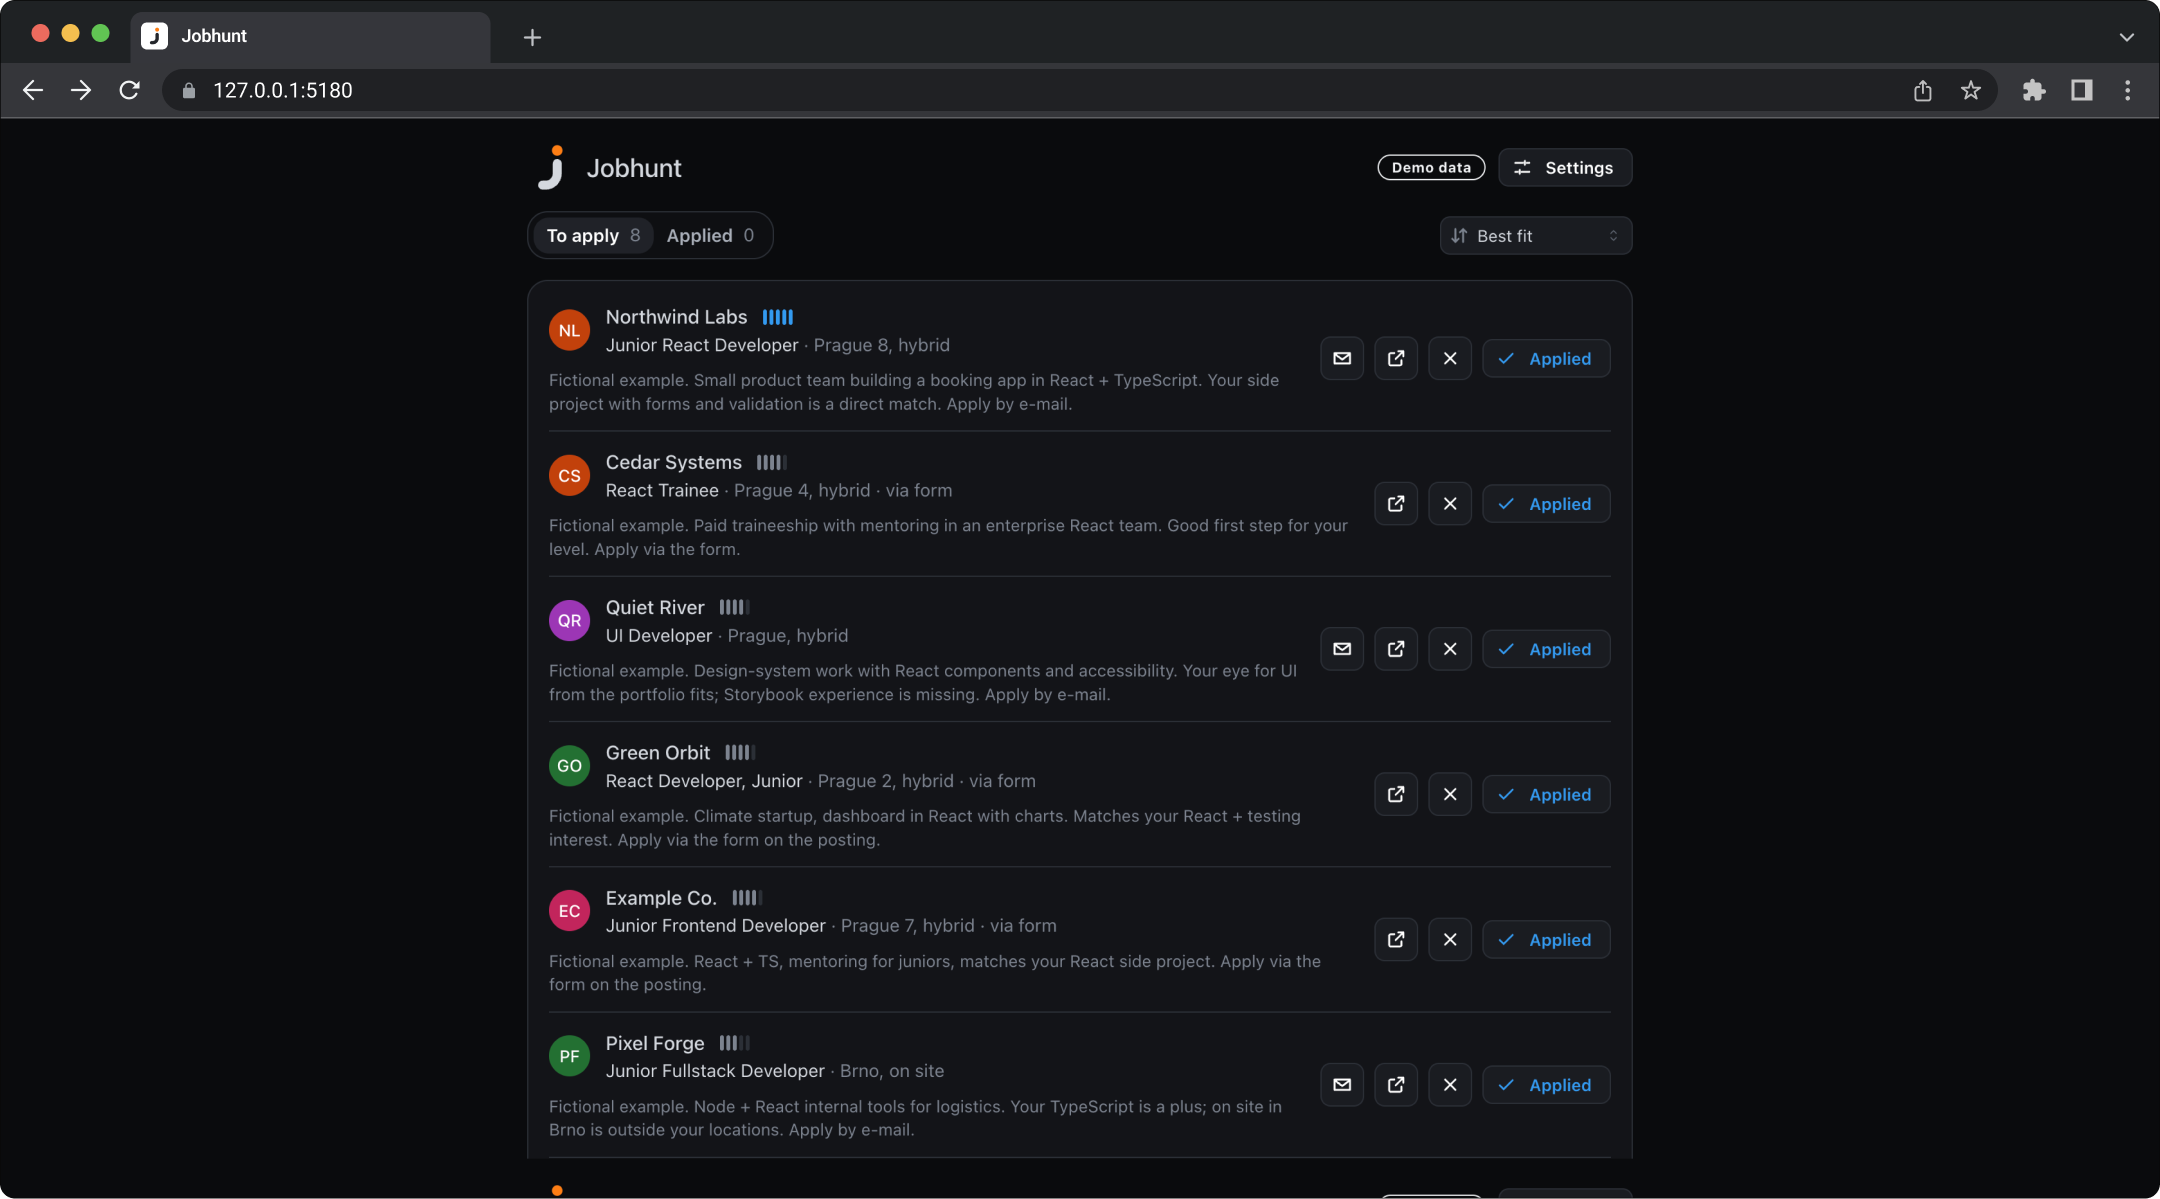
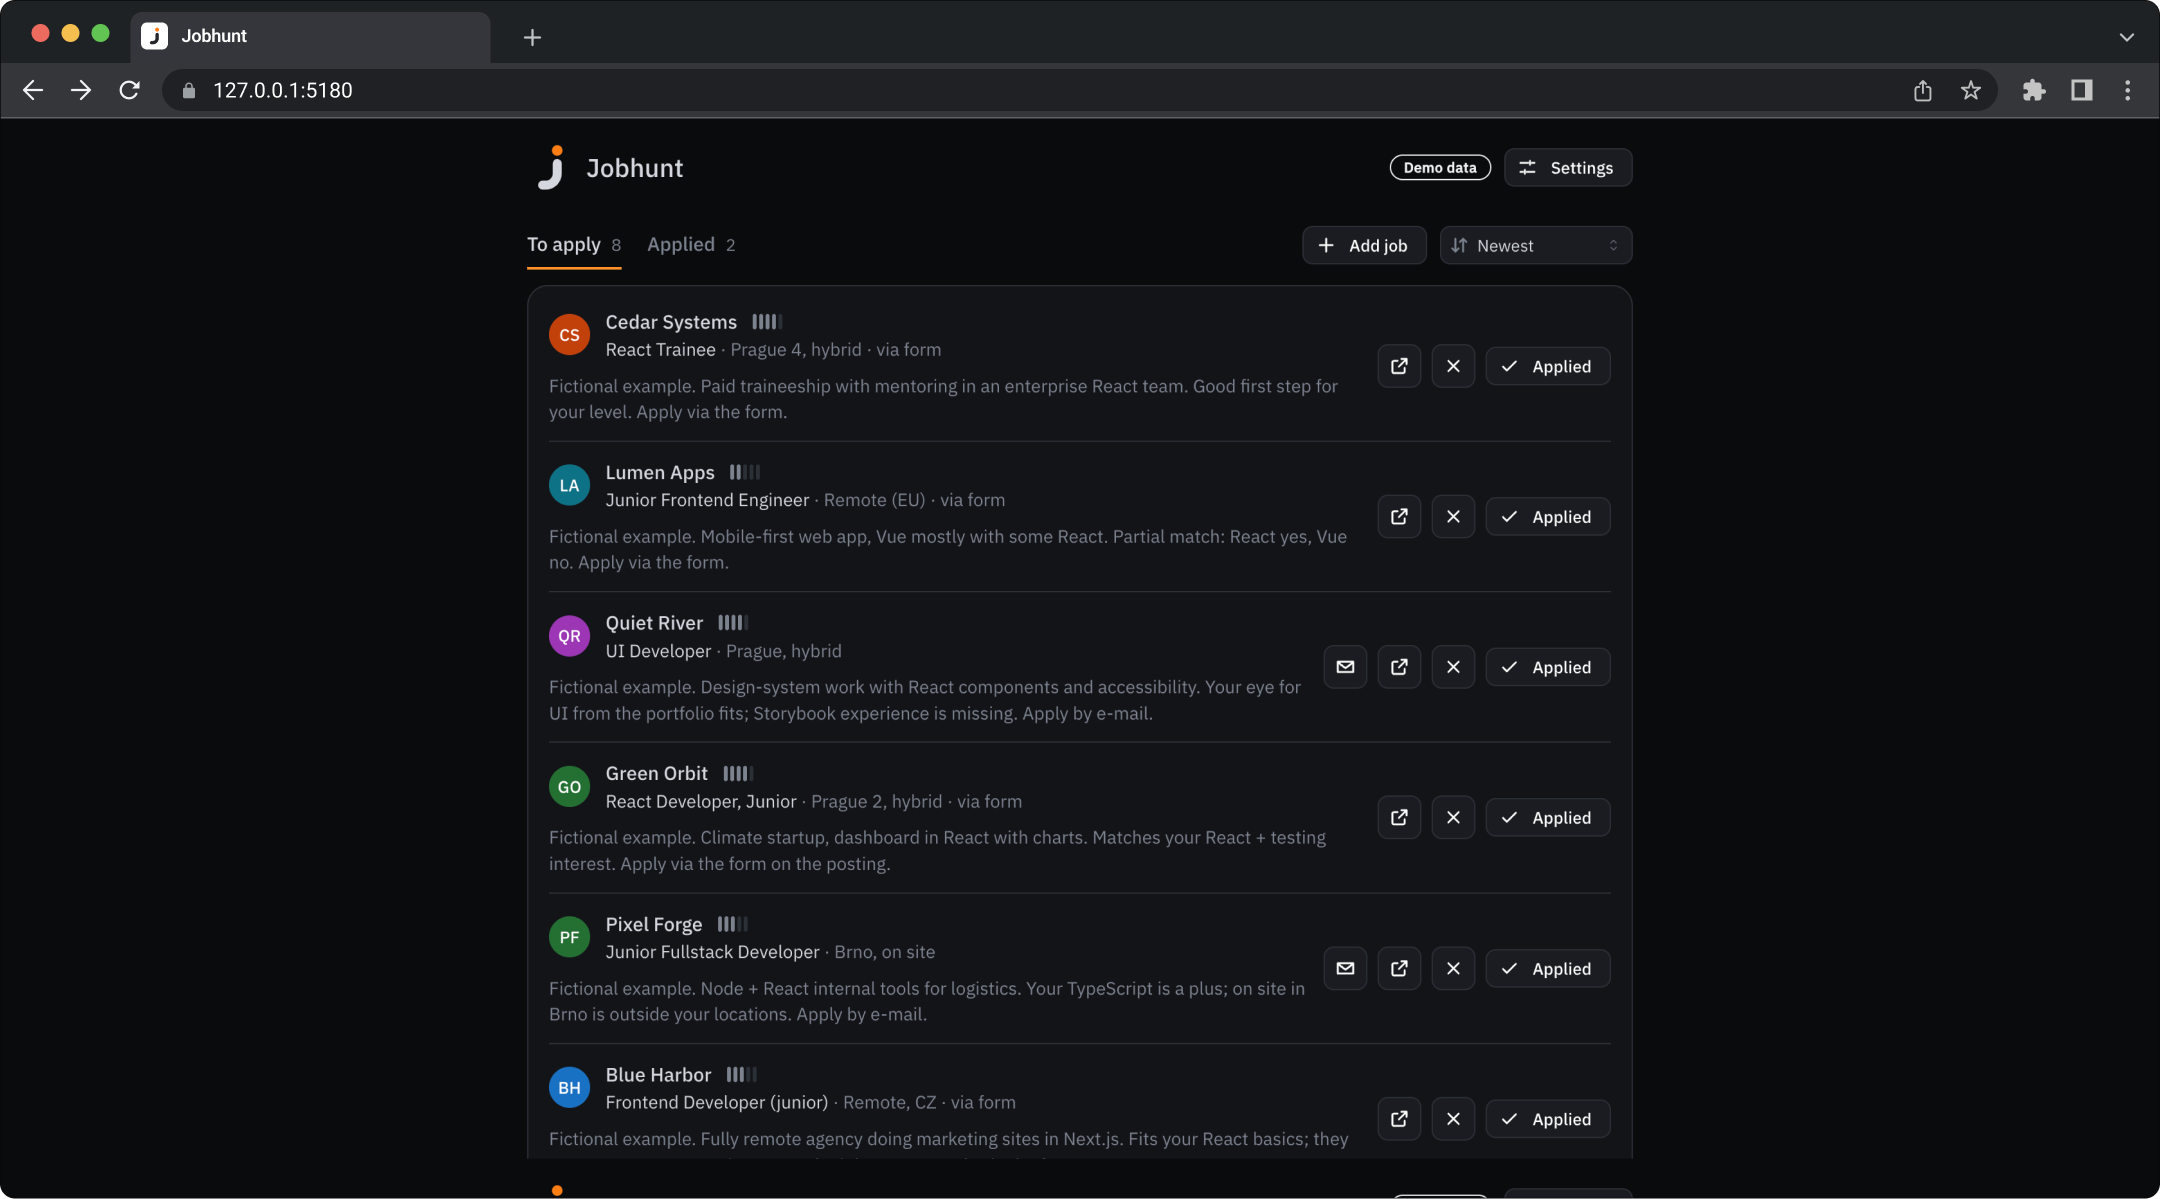
feat: IBM Plex type, orange default accent, plain text list tabs
Bundles IBM Plex Sans and Mono locally, makes the logo orange the default
accent (shades 7-9 darkened for contrast), replaces the segmented control
with text tabs and mono counts, and refreshes the README screenshots.

diff --git a/src/App.tsx b/src/App.tsx
@@ -14,12 +14,12 @@ import {
 	Flex,
 	Group,
 	Paper,
-	SegmentedControl,
 	Select,
 	Stack,
 	Text,
 	Textarea,
 	Title,
+	UnstyledButton,
 } from '@mantine/core';
 import {
 	AppHeader,
@@ -135,7 +135,6 @@ function Row({ r, sent }: { r: JobRow; sent: boolean }) {
 							/>
 							<Button
 								variant="default"
-								c="var(--mantine-primary-color-filled)"
 								className="hover-accent"
 								size="xs"
 								leftSection={<Icon name="check" />}
@@ -244,13 +243,42 @@ const sorters: Record<Sort, (a: JobRow, b: JobRow) => number> = {
 	company: (a, b) => a.company.localeCompare(b.company, locale, { sensitivity: 'base' }),
 };
 
-function TabLabel({ label, count }: { label: string; count: number }) {
+/** Plain text tabs: label plus a mono count, the open one in the text color with an accent underline. */
+function ListTabs({
+	value,
+	onChange,
+	items,
+}: {
+	value: Tab;
+	onChange: (t: Tab) => void;
+	items: { value: Tab; label: string; count: number }[];
+}) {
+	const move = (dir: number) => {
+		const i = items.findIndex((x) => x.value === value);
+		const next = items[(i + dir + items.length) % items.length]!;
+		onChange(next.value);
+		document.getElementById(`tab-${next.value}`)?.focus();
+	};
 	return (
-		<Group gap={8} wrap="nowrap" justify="center">
-			<span>{label}</span>
-			<Text span c="dimmed" size="sm" className="tnum">
-				{count}
-			</Text>
+		<Group gap={20} role="tablist" aria-label={t.lists.label} wrap="nowrap">
+			{items.map((x) => (
+				<UnstyledButton
+					key={x.value}
+					id={`tab-${x.value}`}
+					role="tab"
+					aria-selected={x.value === value}
+					tabIndex={x.value === value ? 0 : -1}
+					className="list-tab"
+					onClick={() => onChange(x.value)}
+					onKeyDown={(e) => {
+						if (e.key === 'ArrowRight') move(1);
+						if (e.key === 'ArrowLeft') move(-1);
+					}}
+				>
+					{x.label}
+					<span className="meta">{x.count}</span>
+				</UnstyledButton>
+			))}
 		</Group>
 	);
 }
@@ -278,7 +306,7 @@ export default function App() {
 
 	return (
 		<Container size={900} px={{ base: 'md', sm: 'lg' }} py="lg" pb={48}>
-			<Stack gap="md">
+			<Stack gap={24}>
 				<AppHeader
 					title={t.appTitle}
 					onHome={() => setScreen('main')}
@@ -307,17 +335,15 @@ export default function App() {
 				) : rows.length === 0 && (!profile || leads.length === 0) ? (
 					<Onboarding onAdd={() => setAdding(true)} />
 				) : (
-					<>
+					<Stack gap={12}>
 						{/* Tab switch and sort sit on the page above the card. */}
 						<Group justify="space-between" gap="sm">
-							<SegmentedControl
-								aria-label={t.lists.label}
-								className="page-switch"
+							<ListTabs
 								value={tab}
-								onChange={(v) => setTab(v as Tab)}
-								data={[
-									{ value: 'todo', label: <TabLabel label={t.lists.toSend} count={toSend.length} /> },
-									{ value: 'applied', label: <TabLabel label={t.lists.sent} count={sent.length} /> },
+								onChange={setTab}
+								items={[
+									{ value: 'todo', label: t.lists.toSend, count: toSend.length },
+									{ value: 'applied', label: t.lists.sent, count: sent.length },
 								]}
 							/>
 							<Group gap="xs" wrap="nowrap">
@@ -350,7 +376,7 @@ export default function App() {
 							renderItem={(r) => <Row r={r} sent={tab === 'applied'} />}
 							empty={tab === 'todo' ? t.lists.allSent : t.lists.noneSent}
 						/>
-					</>
+					</Stack>
 				)}
 			</Stack>
 			{adding && <JobForm applied={screen === 'main' && tab === 'applied'} onClose={() => setAdding(false)} />}

diff --git a/src/ui/theme.ts b/src/ui/theme.ts
@@ -1,12 +1,27 @@
 import { createTheme, rem } from '@mantine/core';
 
-// Calm look: one accent color (blue), gray surfaces, 15 px body text.
+// Calm look: one accent color (orange, from the logo dot), gray surfaces, 15 px body text.
+// IBM Plex Sans for the interface, Plex Mono for counts, dates and other meta.
 // Red and yellow only for problems.
 export const theme = createTheme({
-	primaryColor: 'blue',
+	primaryColor: 'orange',
 	primaryShade: { light: 7, dark: 5 },
 	// Filled accents always carry white text, whatever the color (no autoContrast).
 	colors: {
+		// Mantine's orange, with shades 7–9 darkened so accent text and white-on-accent reach 4.5:1 on white.
+		// 6 stays the logo dot.
+		orange: [
+			'#fff4e6',
+			'#ffe8cc',
+			'#ffd8a8',
+			'#ffc078',
+			'#ffa94d',
+			'#ff922b',
+			'#fd7e14',
+			'#c2410c',
+			'#a63a0b',
+			'#8a300a',
+		],
 		// Dark mode: near-black page (9), cards one step up (7), muted borders (4). Depth from steps, not shadows.
 		dark: [
 			'#d4d8de',
@@ -23,13 +38,17 @@ export const theme = createTheme({
 	},
 	defaultRadius: 'md',
 	cursorType: 'pointer',
-	fontFamily: 'Inter, ui-sans-serif, system-ui, -apple-system, "Segoe UI", sans-serif',
+	fontFamily: '"IBM Plex Sans", ui-sans-serif, system-ui, -apple-system, "Segoe UI", sans-serif',
+	fontFamilyMonospace: '"IBM Plex Mono", ui-monospace, SFMono-Regular, Menlo, monospace',
 	fontSizes: { xs: rem(13), sm: rem(14), md: rem(15), lg: rem(17), xl: rem(20) },
 	headings: {
+		fontFamily: '"IBM Plex Sans", ui-sans-serif, system-ui, sans-serif',
 		fontWeight: '500',
 		sizes: { h1: { fontSize: rem(20) }, h2: { fontSize: rem(16) }, h3: { fontSize: rem(14) } },
 	},
 	components: {
+		// Only 400 and 500 are bundled, so buttons drop Mantine's 600 instead of getting a faux bold.
+		Button: { styles: { root: { fontWeight: 500 } } },
 		Paper: { defaultProps: { withBorder: true, radius: 'lg' } },
 		SegmentedControl: { defaultProps: { radius: 'lg', size: 'sm' } },
 		Tooltip: {

diff --git a/src/ui/styles.css b/src/ui/styles.css
@@ -113,9 +113,40 @@ body {
 	}
 }
 
-/* A segmented control on the page background: its track is nearly the page color, so it gets the card hairline. */
-.page-switch {
-	border: 1px solid var(--mantine-color-default-border);
+/* Counts and other meta: mono, small, dimmed, tabular. */
+.meta {
+	font-family: var(--mantine-font-family-monospace);
+	font-size: var(--mantine-font-size-xs);
+	font-variant-numeric: tabular-nums;
+	color: var(--mantine-color-dimmed);
+}
+
+/* List tabs: plain text, the open one in the text color with a 2px accent underline. */
+.list-tab {
+	display: inline-flex;
+	align-items: baseline;
+	gap: 8px;
+	padding: 6px 0;
+	border-bottom: 2px solid transparent;
+	color: var(--mantine-color-dimmed);
+	font-weight: 500;
+	transition:
+		color 120ms,
+		border-color 120ms;
+}
+.list-tab[aria-selected='true'] {
+	color: var(--mantine-color-text);
+	border-bottom-color: var(--mantine-primary-color-filled);
+}
+.list-tab:focus-visible {
+	outline: 2px solid var(--mantine-primary-color-filled);
+	outline-offset: 2px;
+	border-radius: 4px;
+}
+@media (hover: hover) {
+	.list-tab:hover {
+		color: var(--mantine-color-text);
+	}
 }
 
 /* Toasts: no accent bar, a hairline instead. Only error toasts (toast-danger) keep their red bar. */

diff --git a/src/ui/accent.tsx b/src/ui/accent.tsx
@@ -1,11 +1,11 @@
 /*
  * Accent color: the user's choice, remembered by the browser (localStorage).
- * When storage can't be read or written, the default blue stays.
+ * When storage can't be read or written, the default orange (the logo dot) stays.
  */
 import { createContext, useCallback, useContext, useState, type ReactNode } from 'react';
 
 // Mantine palette colors. Red and yellow are missing on purpose: they belong to problems.
-export const accents = ['blue', 'violet', 'cyan', 'teal', 'green', 'orange', 'pink'] as const;
+export const accents = ['orange', 'blue', 'violet', 'cyan', 'teal', 'green', 'pink'] as const;
 export type Accent = (typeof accents)[number];
 
 const KEY = 'jobhunt-local.accent';
@@ -13,14 +13,14 @@ const KEY = 'jobhunt-local.accent';
 function load(): Accent {
 	try {
 		const v = localStorage.getItem(KEY);
-		return accents.includes(v as Accent) ? (v as Accent) : 'blue';
+		return accents.includes(v as Accent) ? (v as Accent) : 'orange';
 	} catch {
-		return 'blue';
+		return 'orange';
 	}
 }
 
 const AccentContext = createContext<{ accent: Accent; setAccent: (a: Accent) => void }>({
-	accent: 'blue',
+	accent: 'orange',
 	setAccent: () => {},
 });
 

diff --git a/src/ui/Providers.tsx b/src/ui/Providers.tsx
@@ -11,6 +11,10 @@ import 'dayjs/locale/it';
 import 'dayjs/locale/nl';
 import 'dayjs/locale/pl';
 import 'dayjs/locale/pt';
+// Fonts ship with the app (no CDN). unicode-range keeps unused subsets from loading.
+import '@fontsource/ibm-plex-sans/400.css';
+import '@fontsource/ibm-plex-sans/500.css';
+import '@fontsource/ibm-plex-mono/400.css';
 import '@mantine/core/styles.css';
 import '@mantine/dates/styles.css';
 import '@mantine/notifications/styles.css';
